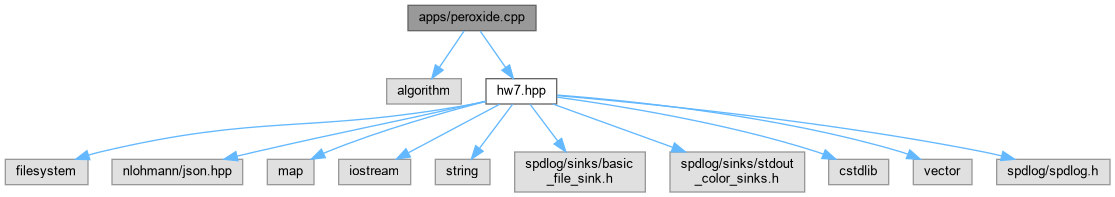
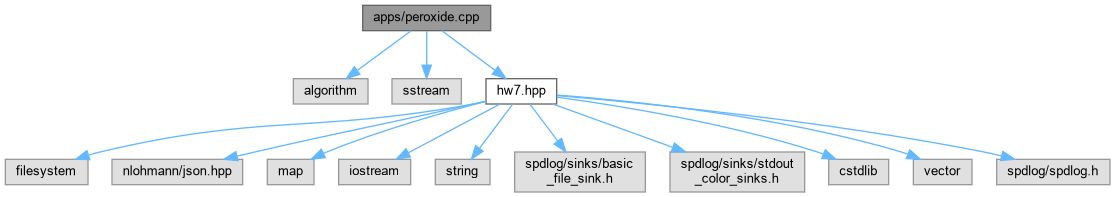
Test combined header.

diff --git a/docs/html/hw7_8hpp_source.html b/docs/html/hw7_8hpp_source.html
@@ -293,7 +293,7 @@ $(document).ready(function() { init_codefold(0); });
 <div class="foldopen" id="foldopen00289" data-start="{" data-end="}">
 <div class="line"><a id="l00289" name="l00289"></a><span class="lineno"><a class="line" href="classFilter.html#a1e0cac1d9e3c94f8a5a038dd3eba5c2a">  289</a></span><a class="code hl_typedef" href="hw7_8hpp.html#a72d99dccc886fa8d2111a95b79efda6e">ErrCode</a> <a class="code hl_function" href="classFilter.html#a38ecff36a4beae099b5cd418e092a55c">Filter&lt;Path&gt;::process</a>(<span class="keyword">const</span> <a class="code hl_typedef" href="hw7_8hpp.html#aa20d22486508f139f743e51d510c9b78">Path</a>&amp; p)</div>
 <div class="line"><a id="l00290" name="l00290"></a><span class="lineno">  290</span>{</div>
-<div class="line"><a id="l00291" name="l00291"></a><span class="lineno">  291</span>    cout &lt;&lt; p &lt;&lt; <span class="stringliteral">&quot;is a &quot;</span> &lt;&lt; <a class="code hl_function" href="hw7_8hpp.html#a26aa7acca79797ebd216b994c5079672">magic_type</a>(p) &lt;&lt; <span class="stringliteral">&quot; file.&quot;</span> &lt;&lt; endl;</div>
+<div class="line"><a id="l00291" name="l00291"></a><span class="lineno">  291</span>    std::cout &lt;&lt; p &lt;&lt; <span class="stringliteral">&quot;is a &quot;</span> &lt;&lt; <a class="code hl_function" href="hw7_8hpp.html#a26aa7acca79797ebd216b994c5079672">magic_type</a>(p) &lt;&lt; <span class="stringliteral">&quot; file.&quot;</span> &lt;&lt; std::endl;</div>
 <div class="line"><a id="l00292" name="l00292"></a><span class="lineno">  292</span>    </div>
 <div class="line"><a id="l00293" name="l00293"></a><span class="lineno">  293</span>    <span class="keywordflow">return</span> EXIT_SUCCESS;</div>
 <div class="line"><a id="l00294" name="l00294"></a><span class="lineno">  294</span>}</div>
@@ -302,7 +302,7 @@ $(document).ready(function() { init_codefold(0); });
 <div class="line"><a id="l00296" name="l00296"></a><span class="lineno">  296</span><span class="keyword">template</span> &lt;&gt;</div>
 <div class="line"><a id="l00297" name="l00297"></a><span class="lineno">  297</span><a class="code hl_typedef" href="hw7_8hpp.html#a72d99dccc886fa8d2111a95b79efda6e">ErrCode</a> <a class="code hl_function" href="classFilter.html#a38ecff36a4beae099b5cd418e092a55c">Filter&lt;String&gt;::process</a>(<span class="keyword">const</span> <a class="code hl_typedef" href="hw7_8hpp.html#a5573b97b9e5129f61d289e037d7e806c">String</a>&amp; p)</div>
 <div class="line"><a id="l00298" name="l00298"></a><span class="lineno">  298</span>{</div>
-<div class="line"><a id="l00299" name="l00299"></a><span class="lineno">  299</span>    cout &lt;&lt; p &lt;&lt; endl;</div>
+<div class="line"><a id="l00299" name="l00299"></a><span class="lineno">  299</span>    std::cout &lt;&lt; p &lt;&lt; std::endl;</div>
 <div class="line"><a id="l00300" name="l00300"></a><span class="lineno">  300</span>    </div>
 <div class="line"><a id="l00301" name="l00301"></a><span class="lineno">  301</span>    <span class="keywordflow">return</span> EXIT_SUCCESS;</div>
 <div class="line"><a id="l00302" name="l00302"></a><span class="lineno">  302</span>}</div>
@@ -320,7 +320,7 @@ $(document).ready(function() { init_codefold(0); });
 <div class="line"><a id="l00331" name="l00331"></a><span class="lineno">  331</span> </div>
 <div class="line"><a id="l00336" name="l00336"></a><span class="lineno"><a class="line" href="hw7_8hpp.html#ac69b0c9a687b796675328a8ac78dc156">  336</a></span><span class="keywordtype">void</span> <a class="code hl_function" href="hw7_8hpp.html#ac69b0c9a687b796675328a8ac78dc156">debug</a>(<span class="keyword">const</span> <a class="code hl_typedef" href="hw7_8hpp.html#a5573b97b9e5129f61d289e037d7e806c">String</a>&amp; s);</div>
 <div class="line"><a id="l00337" name="l00337"></a><span class="lineno">  337</span> </div>
-<div class="line"><a id="l00344" name="l00344"></a><span class="lineno"><a class="line" href="hw7_8hpp.html#a90e17d03c21fe73bc812d617f2c26e78">  344</a></span><span class="keywordtype">void</span> <a class="code hl_function" href="hw7_8hpp.html#ac69b0c9a687b796675328a8ac78dc156">debug</a>(ostringstream&amp; ss);</div>
+<div class="line"><a id="l00344" name="l00344"></a><span class="lineno"><a class="line" href="hw7_8hpp.html#a51067e2b46bf21364e943d3b723baa1f">  344</a></span><span class="keywordtype">void</span> <a class="code hl_function" href="hw7_8hpp.html#ac69b0c9a687b796675328a8ac78dc156">debug</a>(std::ostringstream&amp; ss);</div>
 <div class="line"><a id="l00345" name="l00345"></a><span class="lineno">  345</span> </div>
 <div class="line"><a id="l00350" name="l00350"></a><span class="lineno"><a class="line" href="hw7_8hpp.html#a29c2015c6ef1926ac0395a1d24408dad">  350</a></span><span class="keywordtype">void</span> <a class="code hl_function" href="hw7_8hpp.html#a29c2015c6ef1926ac0395a1d24408dad">info</a>(<span class="keyword">const</span> <a class="code hl_typedef" href="hw7_8hpp.html#a5573b97b9e5129f61d289e037d7e806c">String</a>&amp; s);</div>
 <div class="line"><a id="l00351" name="l00351"></a><span class="lineno">  351</span> </div>
@@ -372,7 +372,7 @@ $(document).ready(function() { init_codefold(0); });
 <div class="line"><a id="l00456" name="l00456"></a><span class="lineno"><a class="line" href="classProgram.html#a3eee7c246bfb4ee0130f80923c7ee565">  456</a></span>    <span class="keyword">inline</span> <span class="keyword">virtual</span> <a class="code hl_typedef" href="hw7_8hpp.html#a72d99dccc886fa8d2111a95b79efda6e">ErrCode</a> <a class="code hl_function" href="classProgram.html#a3eee7c246bfb4ee0130f80923c7ee565">run</a>()</div>
 <div class="line"><a id="l00457" name="l00457"></a><span class="lineno">  457</span>    {</div>
 <div class="line"><a id="l00458" name="l00458"></a><span class="lineno">  458</span>        <a class="code hl_function" href="structGlobals.html#afe3b7e6ecf3775109e836df963364e08">dump</a>();</div>
-<div class="line"><a id="l00459" name="l00459"></a><span class="lineno">  459</span>        std::cout &lt;&lt; <a class="code hl_variable" href="namespacehw7.html#a41b17e20fbdcf8f95da5477e3f28e562">hw7::GREETING</a> &lt;&lt; <a class="code hl_variable" href="structGlobals.html#a799a7fbf079888c2cc8481e302952745">input</a> &lt;&lt; endl;</div>
+<div class="line"><a id="l00459" name="l00459"></a><span class="lineno">  459</span>        std::cout &lt;&lt; <a class="code hl_variable" href="namespacehw7.html#a41b17e20fbdcf8f95da5477e3f28e562">hw7::GREETING</a> &lt;&lt; <a class="code hl_variable" href="structGlobals.html#a799a7fbf079888c2cc8481e302952745">input</a> &lt;&lt; std::endl;</div>
 <div class="line"><a id="l00460" name="l00460"></a><span class="lineno">  460</span> </div>
 <div class="line"><a id="l00461" name="l00461"></a><span class="lineno">  461</span>        <a class="code hl_class" href="classFilter.html">Filter&lt;Path&gt;</a> f(<a class="code hl_variable" href="structGlobals.html#a454a855b69fa9e141ff63596ab231872">args</a>);</div>
 <div class="line"><a id="l00462" name="l00462"></a><span class="lineno">  462</span>        f.<a class="code hl_function" href="classFilter.html#a38ecff36a4beae099b5cd418e092a55c">process</a>();</div>

diff --git a/docs/html/hw7_8hpp.html b/docs/html/hw7_8hpp.html
@@ -222,9 +222,9 @@ Functions</h2></td></tr>
 <tr class="memitem:ac69b0c9a687b796675328a8ac78dc156" id="r_ac69b0c9a687b796675328a8ac78dc156"><td class="memItemLeft" align="right" valign="top">void&#160;</td><td class="memItemRight" valign="bottom"><a class="el" href="hw7_8hpp.html#ac69b0c9a687b796675328a8ac78dc156">debug</a> (const <a class="el" href="hw7_8hpp.html#a5573b97b9e5129f61d289e037d7e806c">String</a> &amp;s)</td></tr>
 <tr class="memdesc:ac69b0c9a687b796675328a8ac78dc156"><td class="mdescLeft">&#160;</td><td class="mdescRight">Log a string.  <br /></td></tr>
 <tr class="separator:ac69b0c9a687b796675328a8ac78dc156"><td class="memSeparator" colspan="2">&#160;</td></tr>
-<tr class="memitem:a90e17d03c21fe73bc812d617f2c26e78" id="r_a90e17d03c21fe73bc812d617f2c26e78"><td class="memItemLeft" align="right" valign="top">void&#160;</td><td class="memItemRight" valign="bottom"><a class="el" href="hw7_8hpp.html#a90e17d03c21fe73bc812d617f2c26e78">debug</a> (ostringstream &amp;ss)</td></tr>
-<tr class="memdesc:a90e17d03c21fe73bc812d617f2c26e78"><td class="mdescLeft">&#160;</td><td class="mdescRight">Log a string.  <br /></td></tr>
-<tr class="separator:a90e17d03c21fe73bc812d617f2c26e78"><td class="memSeparator" colspan="2">&#160;</td></tr>
+<tr class="memitem:a51067e2b46bf21364e943d3b723baa1f" id="r_a51067e2b46bf21364e943d3b723baa1f"><td class="memItemLeft" align="right" valign="top">void&#160;</td><td class="memItemRight" valign="bottom"><a class="el" href="hw7_8hpp.html#a51067e2b46bf21364e943d3b723baa1f">debug</a> (std::ostringstream &amp;ss)</td></tr>
+<tr class="memdesc:a51067e2b46bf21364e943d3b723baa1f"><td class="mdescLeft">&#160;</td><td class="mdescRight">Log a string.  <br /></td></tr>
+<tr class="separator:a51067e2b46bf21364e943d3b723baa1f"><td class="memSeparator" colspan="2">&#160;</td></tr>
 <tr class="memitem:a29c2015c6ef1926ac0395a1d24408dad" id="r_a29c2015c6ef1926ac0395a1d24408dad"><td class="memItemLeft" align="right" valign="top">void&#160;</td><td class="memItemRight" valign="bottom"><a class="el" href="hw7_8hpp.html#a29c2015c6ef1926ac0395a1d24408dad">info</a> (const <a class="el" href="hw7_8hpp.html#a5573b97b9e5129f61d289e037d7e806c">String</a> &amp;s)</td></tr>
 <tr class="memdesc:a29c2015c6ef1926ac0395a1d24408dad"><td class="mdescLeft">&#160;</td><td class="mdescRight">Log a string.  <br /></td></tr>
 <tr class="separator:a29c2015c6ef1926ac0395a1d24408dad"><td class="memSeparator" colspan="2">&#160;</td></tr>
@@ -592,8 +592,8 @@ Variables</h2></td></tr>
 
 </div>
 </div>
-<a id="a90e17d03c21fe73bc812d617f2c26e78" name="a90e17d03c21fe73bc812d617f2c26e78"></a>
-<h2 class="memtitle"><span class="permalink"><a href="#a90e17d03c21fe73bc812d617f2c26e78">&#9670;&#160;</a></span>debug() <span class="overload">[2/2]</span></h2>
+<a id="a51067e2b46bf21364e943d3b723baa1f" name="a51067e2b46bf21364e943d3b723baa1f"></a>
+<h2 class="memtitle"><span class="permalink"><a href="#a51067e2b46bf21364e943d3b723baa1f">&#9670;&#160;</a></span>debug() <span class="overload">[2/2]</span></h2>
 
 <div class="memitem">
 <div class="memproto">
@@ -601,7 +601,7 @@ Variables</h2></td></tr>
         <tr>
           <td class="memname">void debug </td>
           <td>(</td>
-          <td class="paramtype">ostringstream &amp;&#160;</td>
+          <td class="paramtype">std::ostringstream &amp;&#160;</td>
           <td class="paramname"><em>ss</em></td><td>)</td>
           <td></td>
         </tr>

diff --git a/docs/html/peroxide_8cpp.html b/docs/html/peroxide_8cpp.html
@@ -82,17 +82,20 @@ $(function() {
 </div><!--header-->
 <div class="contents">
 <div class="textblock"><code>#include &lt;algorithm&gt;</code><br />
+<code>#include &lt;sstream&gt;</code><br />
 <code>#include &quot;<a class="el" href="hw7_8hpp_source.html">hw7.hpp</a>&quot;</code><br />
 </div><div class="textblock"><div class="dynheader">
 Include dependency graph for peroxide.cpp:</div>
 <div class="dyncontent">
 <div class="center"><img src="peroxide_8cpp__incl.png" border="0" usemap="#aapps_2peroxide_8cpp" alt=""/></div>
 <map name="aapps_2peroxide_8cpp" id="aapps_2peroxide_8cpp">
-<area shape="rect" title=" " alt="" coords="408,5,536,31"/>
-<area shape="rect" title=" " alt="" coords="387,79,461,104"/>
-<area shape="poly" title=" " alt="" coords="466,33,442,69,437,66,462,30"/>
+<area shape="rect" title=" " alt="" coords="363,5,491,31"/>
+<area shape="rect" title=" " alt="" coords="293,79,368,104"/>
+<area shape="poly" title=" " alt="" coords="413,33,359,72,356,68,410,29"/>
+<area shape="rect" title=" " alt="" coords="392,79,461,104"/>
+<area shape="poly" title=" " alt="" coords="429,31,429,65,424,65,424,31"/>
 <area shape="rect" href="hw7_8hpp.html" title=" " alt="" coords="486,79,557,104"/>
-<area shape="poly" title=" " alt="" coords="482,29,508,66,503,69,478,33"/>
+<area shape="poly" title=" " alt="" coords="443,29,496,68,493,72,440,33"/>
 <area shape="rect" title=" " alt="" coords="5,159,88,185"/>
 <area shape="poly" title=" " alt="" coords="486,104,474,107,369,121,286,127,204,135,101,155,89,158,88,153,99,149,203,130,286,122,368,116,473,101,485,99"/>
 <area shape="rect" title=" " alt="" coords="112,159,243,185"/>

diff --git a/docs/html/search/all_4.js b/docs/html/search/all_4.js
@@ -7,7 +7,7 @@ var searchData=
   ['data_5ffile_5fname_4',['DATA_FILE_NAME',['../namespacehw7.html#ab6c71b350ed9c62d36bafa1179e942c4',1,'hw7']]],
   ['dbl_5fquote_5',['DBL_QUOTE',['../namespacehw7.html#a41dde8756e0350052f6e2c19674d9040',1,'hw7']]],
   ['dbl_5fspace_6',['DBL_SPACE',['../namespacehw7.html#a498617dc2c97e4ab083eb4a67a859f2b',1,'hw7']]],
-  ['debug_7',['debug',['../hw7_8hpp.html#ac69b0c9a687b796675328a8ac78dc156',1,'debug():&#160;hw7.hpp'],['../namespacetools_1_1nbtools.html#a8057f75cbdb5bf97839ea68c79e8ecf3',1,'tools.nbtools.debug()'],['../hw7_8hpp.html#a90e17d03c21fe73bc812d617f2c26e78',1,'debug():&#160;hw7.hpp']]],
+  ['debug_7',['debug',['../hw7_8hpp.html#ac69b0c9a687b796675328a8ac78dc156',1,'debug():&#160;hw7.hpp'],['../namespacetools_1_1nbtools.html#a8057f75cbdb5bf97839ea68c79e8ecf3',1,'tools.nbtools.debug()'],['../hw7_8hpp.html#a51067e2b46bf21364e943d3b723baa1f',1,'debug():&#160;hw7.hpp']]],
   ['debug_5fkey_8',['DEBUG_KEY',['../namespacehw7.html#a5b8d03d7c92bb15330454138d9d58660',1,'hw7']]],
   ['debug_5fpict_9',['debug_pict',['../namespacehw7.html#a07c716a6bbaf9920f736f3e1a8fff6d7',1,'hw7::DEBUG_PICT'],['../namespacetools_1_1picts.html#adb6a2543341577251511ccc9e6046dd2',1,'tools.picts.DEBUG_PICT']]],
   ['defaultlogfile_10',['defaultLogFile',['../hw7_8hpp.html#afdd6d415ccd420f2c1efc5a0d3cb4484',1,'hw7.hpp']]],

diff --git a/docs/html/search/functions_3.js b/docs/html/search/functions_3.js
@@ -1,6 +1,6 @@
 var searchData=
 [
-  ['debug_0',['debug',['../hw7_8hpp.html#ac69b0c9a687b796675328a8ac78dc156',1,'debug(const String &amp;s):&#160;hw7.hpp'],['../hw7_8hpp.html#a90e17d03c21fe73bc812d617f2c26e78',1,'debug(ostringstream &amp;ss):&#160;hw7.hpp'],['../namespacetools_1_1nbtools.html#a8057f75cbdb5bf97839ea68c79e8ecf3',1,'tools.nbtools.debug()']]],
+  ['debug_0',['debug',['../hw7_8hpp.html#ac69b0c9a687b796675328a8ac78dc156',1,'debug(const String &amp;s):&#160;hw7.hpp'],['../hw7_8hpp.html#a51067e2b46bf21364e943d3b723baa1f',1,'debug(std::ostringstream &amp;ss):&#160;hw7.hpp'],['../namespacetools_1_1nbtools.html#a8057f75cbdb5bf97839ea68c79e8ecf3',1,'tools.nbtools.debug()']]],
   ['defaultlogfile_1',['defaultLogFile',['../hw7_8hpp.html#afdd6d415ccd420f2c1efc5a0d3cb4484',1,'hw7.hpp']]],
   ['detect_5flicense_5ftype_2',['detect_license_type',['../namespacetools_1_1__git__tools.html#a256b381bc2017c6b2269c42f509b2272',1,'tools::_git_tools']]],
   ['display_5fdoc_3',['display_doc',['../namespacetools_1_1nbtools.html#a49a50acf4281eb3d4ae4c04ba2097431',1,'tools::nbtools']]],

diff --git a/apps/peroxide.cpp b/apps/peroxide.cpp
@@ -3,7 +3,8 @@
  *
  * Define main().
  */
-#include <algorithm>
+#include <algorithm> // sort
+#include <sstream>   // ostringstream
 
 #include "hw7.hpp"
 using namespace std;
@@ -23,8 +24,8 @@ namespace h2o2
          * 
          * Make sure the returned value is a `str_list` and no demotion occurs.
          */
-        str_list(const String& text) : StrList(text.split(endl)) {}
-    }
+        str_list(const str& text) : StrList(text.split(str("\n"))) {}
+    };
 } // h2o2
 using namespace h2o2;
 
@@ -70,31 +71,32 @@ ErrCode Peroxide::run()
 
     str text;
     SongList songs;
+    PathList song_list_files;
 
     // If there is input, it should be the song list itself.
     if (!input.empty())
     {
-        text = input;
+        text = str(input);
         // songs = SongList{input};
     }
     else if (!args.empty())
     {
-        text = read_file(Path(args[0]));
+        text = str(read_file(Path(args[0])));
     }
     else
     {
         song_list_files = listdir(SONG_LISTS_DIR);
         sort(song_list_files.begin(), song_list_files.end(), greater<>());
-        text = read_file(song_list_files[0]);
+        text = str(read_file(song_list_files[0]));
         // C++ will `throw` here on errors without any help?
     }
     
     // auto SONG_LIST_FILE = "20260802.txt";
 
     
-    str s = read_file(Path(config["session folder"]) / "lists" / SONG_LIST_FILE);
+    // str s = read_file(Path(config["session folder"]) / "lists" / SONG_LIST_FILE);
 
-    info(s);
+    info(text);
     
     return EXIT_SUCCESS;
 }

diff --git a/hw7/hw7.hpp b/hw7/hw7.hpp
@@ -288,7 +288,7 @@ protected:
 template <>
 ErrCode Filter<Path>::process(const Path& p)
 {
-    cout << p << "is a " << magic_type(p) << " file." << endl;
+    std::cout << p << "is a " << magic_type(p) << " file." << std::endl;
     
     return EXIT_SUCCESS;
 }
@@ -296,7 +296,7 @@ ErrCode Filter<Path>::process(const Path& p)
 template <>
 ErrCode Filter<String>::process(const String& p)
 {
-    cout << p << endl;
+    std::cout << p << std::endl;
     
     return EXIT_SUCCESS;
 }
@@ -341,7 +341,7 @@ void debug(const String& s);
  * @param ss A `stringstream`.
  * @return `void`, but `ss` is reset.
  */
-void debug(ostringstream& ss);
+void debug(std::ostringstream& ss);
 
 /**
  * @brief Log a string.
@@ -456,7 +456,7 @@ public:
     inline virtual ErrCode run()
     {
         dump();
-        std::cout << hw7::GREETING << input << endl;
+        std::cout << hw7::GREETING << input << std::endl;
 
         Filter<Path> f(args);
         f.process();

diff --git a/include/filter.hpp b/include/filter.hpp
@@ -58,7 +58,7 @@ protected:
 template <>
 ErrCode Filter<Path>::process(const Path& p)
 {
-    cout << p << "is a " << magic_type(p) << " file." << endl;
+    std::cout << p << "is a " << magic_type(p) << " file." << std::endl;
     
     return EXIT_SUCCESS;
 }
@@ -66,7 +66,7 @@ ErrCode Filter<Path>::process(const Path& p)
 template <>
 ErrCode Filter<String>::process(const String& p)
 {
-    cout << p << endl;
+    std::cout << p << std::endl;
     
     return EXIT_SUCCESS;
 }

diff --git a/tools/build.py b/tools/build.py
@@ -38,6 +38,7 @@ ERROR_CODES = [
 ]
 
 def combine_headers():
+    ## @todo Move somewhere to a data or config file.
     FILES = [
         "macros",
         "types",
@@ -258,3 +259,4 @@ def build(target:str, message:str)->int:
         print(f"{STOP_PICT}Error revising repository!")
         return result
     return 0
+

diff --git a/source/globals.cpp b/source/globals.cpp
@@ -75,7 +75,7 @@ void Globals::get_piped()
         {
             input.pop_back();
         }
-    } else input = WORLD; // Remove or replace `WORLD` here as appropriate.
+    } // else input = WORLD; // Remove or replace `WORLD` here as appropriate.
 
 }
 

diff --git a/include/program.hpp b/include/program.hpp
@@ -33,7 +33,7 @@ public:
     inline virtual ErrCode run()
     {
         dump();
-        std::cout << hw7::GREETING << input << endl;
+        std::cout << hw7::GREETING << input << std::endl;
 
         Filter<Path> f(args);
         f.process();

diff --git a/include/logging.hpp b/include/logging.hpp
@@ -36,7 +36,7 @@ void debug(const String& s);
  * @param ss A `stringstream`.
  * @return `void`, but `ss` is reset.
  */
-void debug(ostringstream& ss);
+void debug(std::ostringstream& ss);
 
 /**
  * @brief Log a string.
